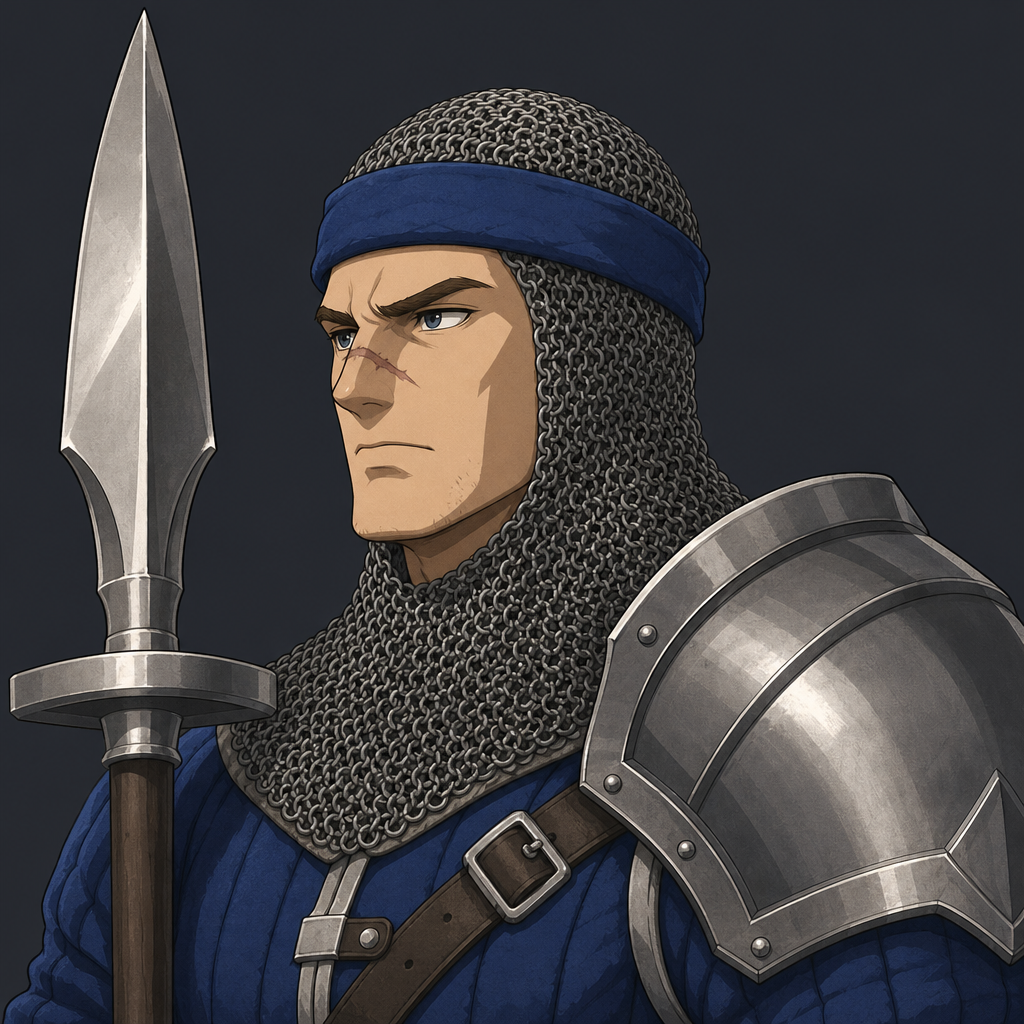
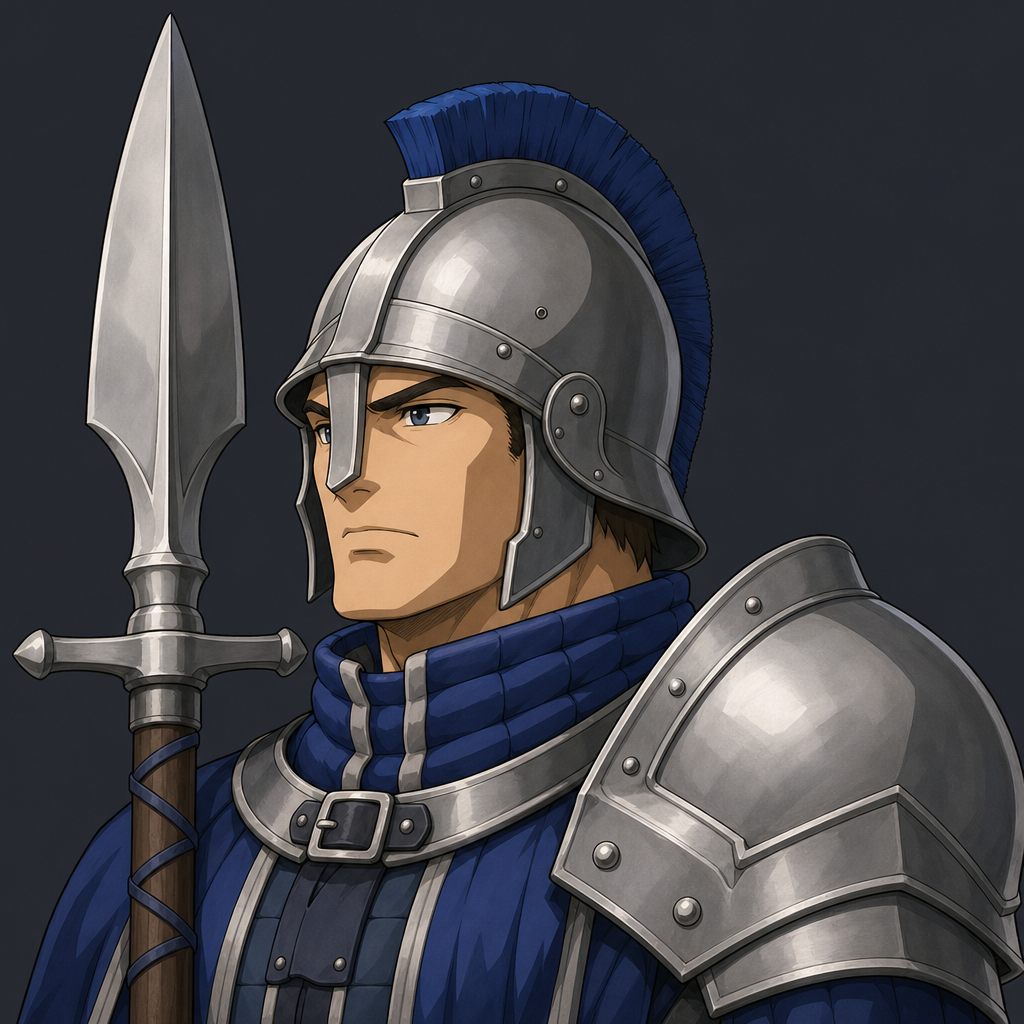
第482期 追記: 槍兵の顔を兜の版の 2 番に差し替え（ポン・鎖頭巾の版は採らない）

diff --git a/design/PHASE482_WATCH_LOG.md b/design/PHASE482_WATCH_LOG.md
@@ -56,7 +56,7 @@
 | 火の魔術師 `pyromancer` | 2 | |
 | 火矢の射手 `fire_archer` | 2 | |
 | 雷杖の魔導兵 `shock_mage` | 2 | |
-| 突き飛ばしの槍兵 `shove_lancer` | 2（ポン「全て 2 で」）→ **作り直しの 2 枚目 ＝ 5 番を置いた** | Claude Code の読み: 作り直しを頼んだ後の「2」なので、鎖頭巾の版の 2 枚目と取った。兜の版の 2 番がよければ差し替える |
+| 突き飛ばしの槍兵 `shove_lancer` | **2（兜の版）** | 作り直しの鎖頭巾の版（4〜6 番）は採らない（ポン 2026-11-20「兜の 2 番に」・いったん 5 番を置いたのは Claude Code の読み違い） |
 
 ## 採用した後の置き場（置くだけで出る）
 
